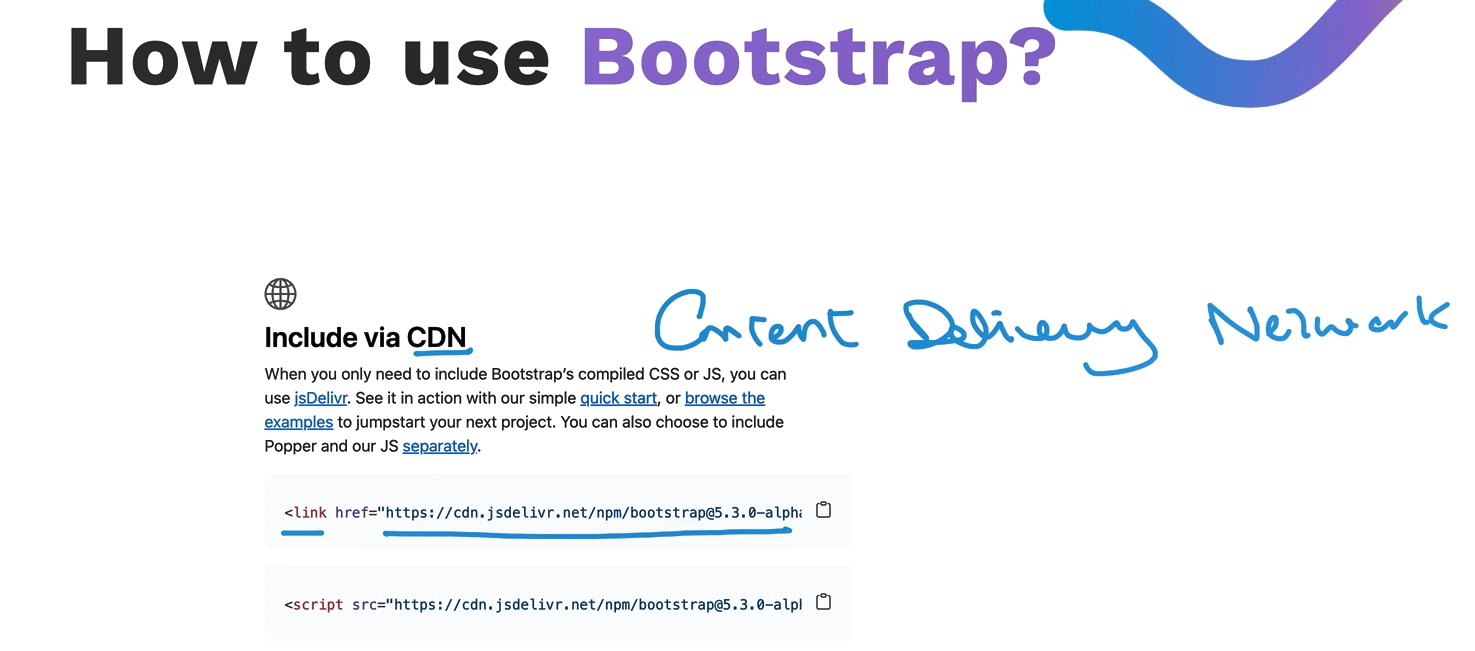
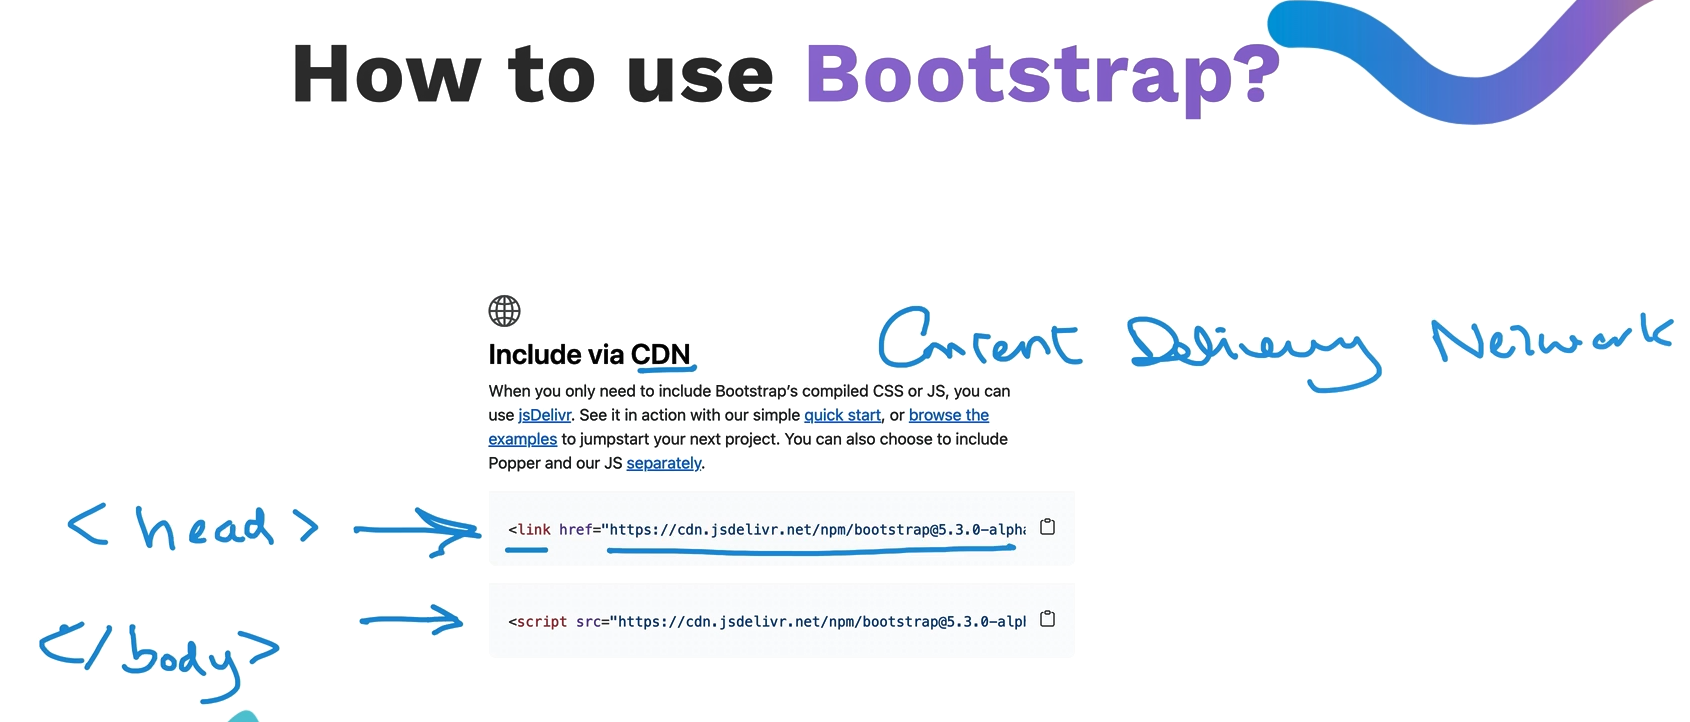
Bootstrap : bootcamp "what is bootstrap ?"             => how to use cdn links

diff --git a/bootstrap/README.md b/bootstrap/README.md
@@ -34,7 +34,7 @@
 
 | Topic | Jump |
 |-------|------|
-| 🌊 what is Bootstrap | [page 20 →](#page-20) |
+| ❓ what is Bootstrap | [page 21 →](#page-21) |
 | 🕹️ selectors | [page 18-19 →](#page-18) |
 | ✨ positioning | [page 20 →](#page-20) |
 | 📱 display | [page 21 →](#page-21) |
@@ -313,9 +313,18 @@
 
 # 📖 Page 21 ( what is Bootstrap ?)
 
-![Page 20](/bootstrap/pic/whatisbootstrap.png)
+> How to use bootstrap : using cdn = "content delivery network"
 
 
+![Page 21](/bootstrap/pic/whatisbootstrap.png)
+
+>💡 put this link in ```<head>``` :
+
+>📌```<link href="https://cdn.jsdelivr.net/npm/bootstrap@5.3.8/dist/css/bootstrap.min.css" rel="stylesheet" integrity="sha384-sRIl4kxILFvY47J16cr9ZwB07vP4J8+LH7qKQnuqkuIAvNWLzeN8tE5YBujZqJLB" crossorigin="anonymous">```
+
+>💡 put this link before ```</body>``` :
+
+>📌```<script src="https://cdn.jsdelivr.net/npm/bootstrap@5.3.8/dist/js/bootstrap.bundle.min.js" integrity="sha384-FKyoEForCGlyvwx9Hj09JcYn3nv7wiPVlz7YYwJrWVcXK/BmnVDxM+D2scQbITxI" crossorigin="anonymous"></script>```
 
 ---
 